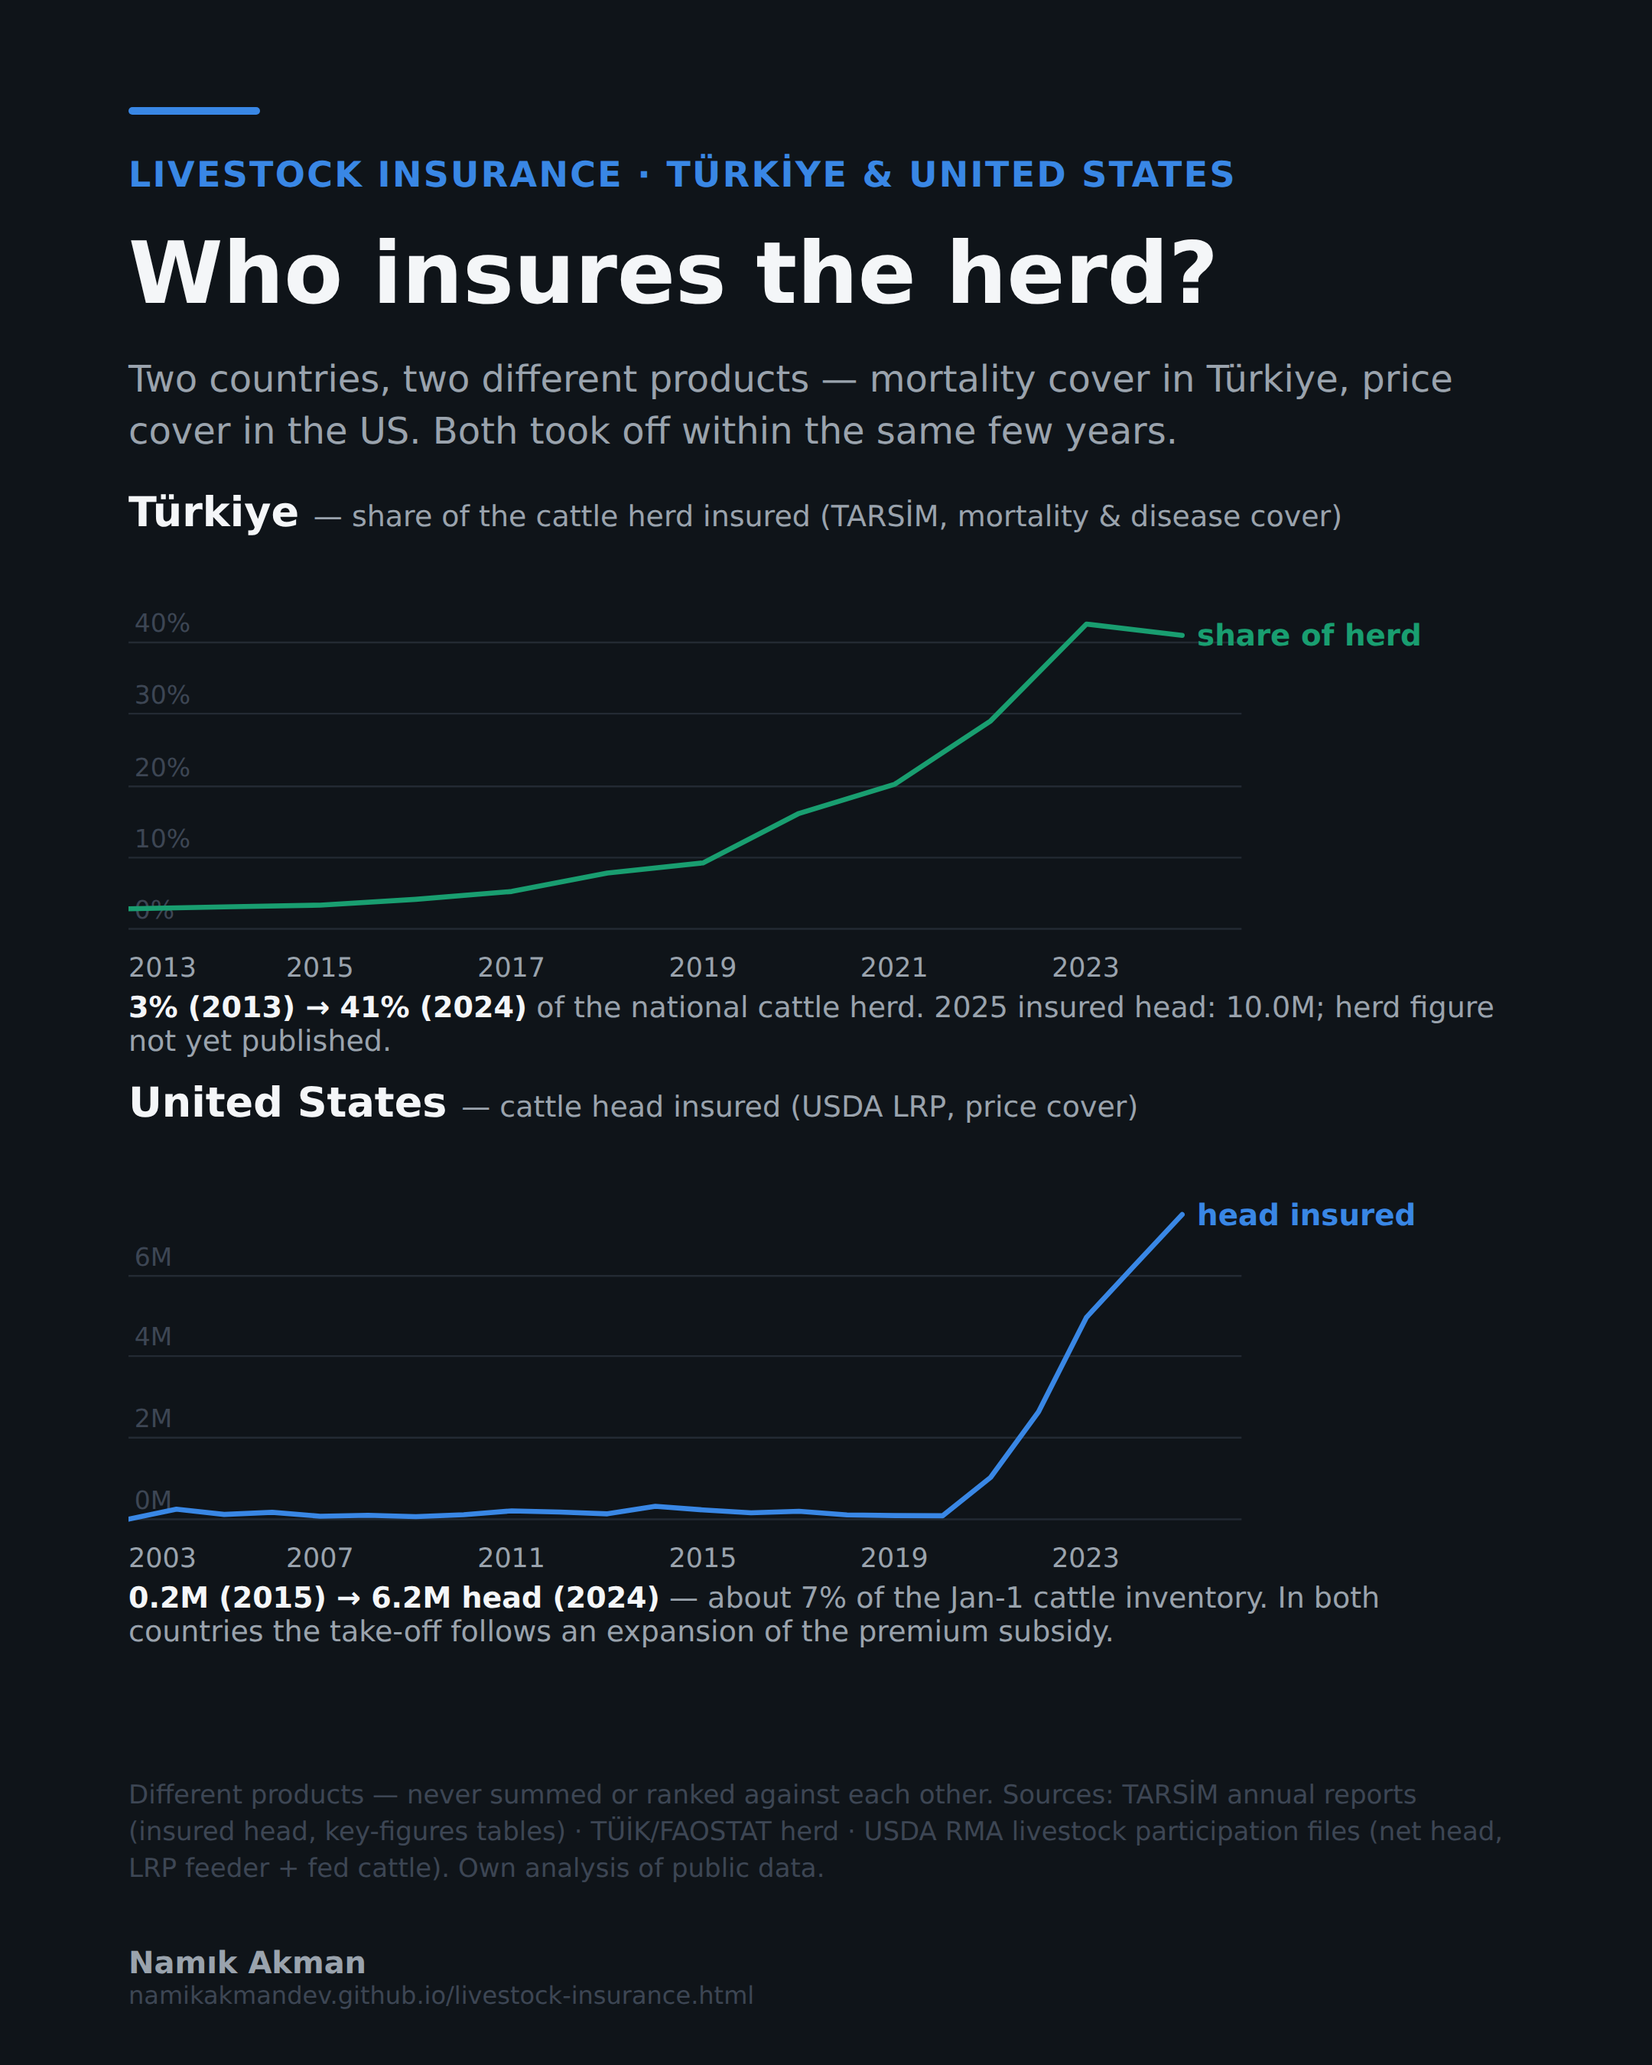
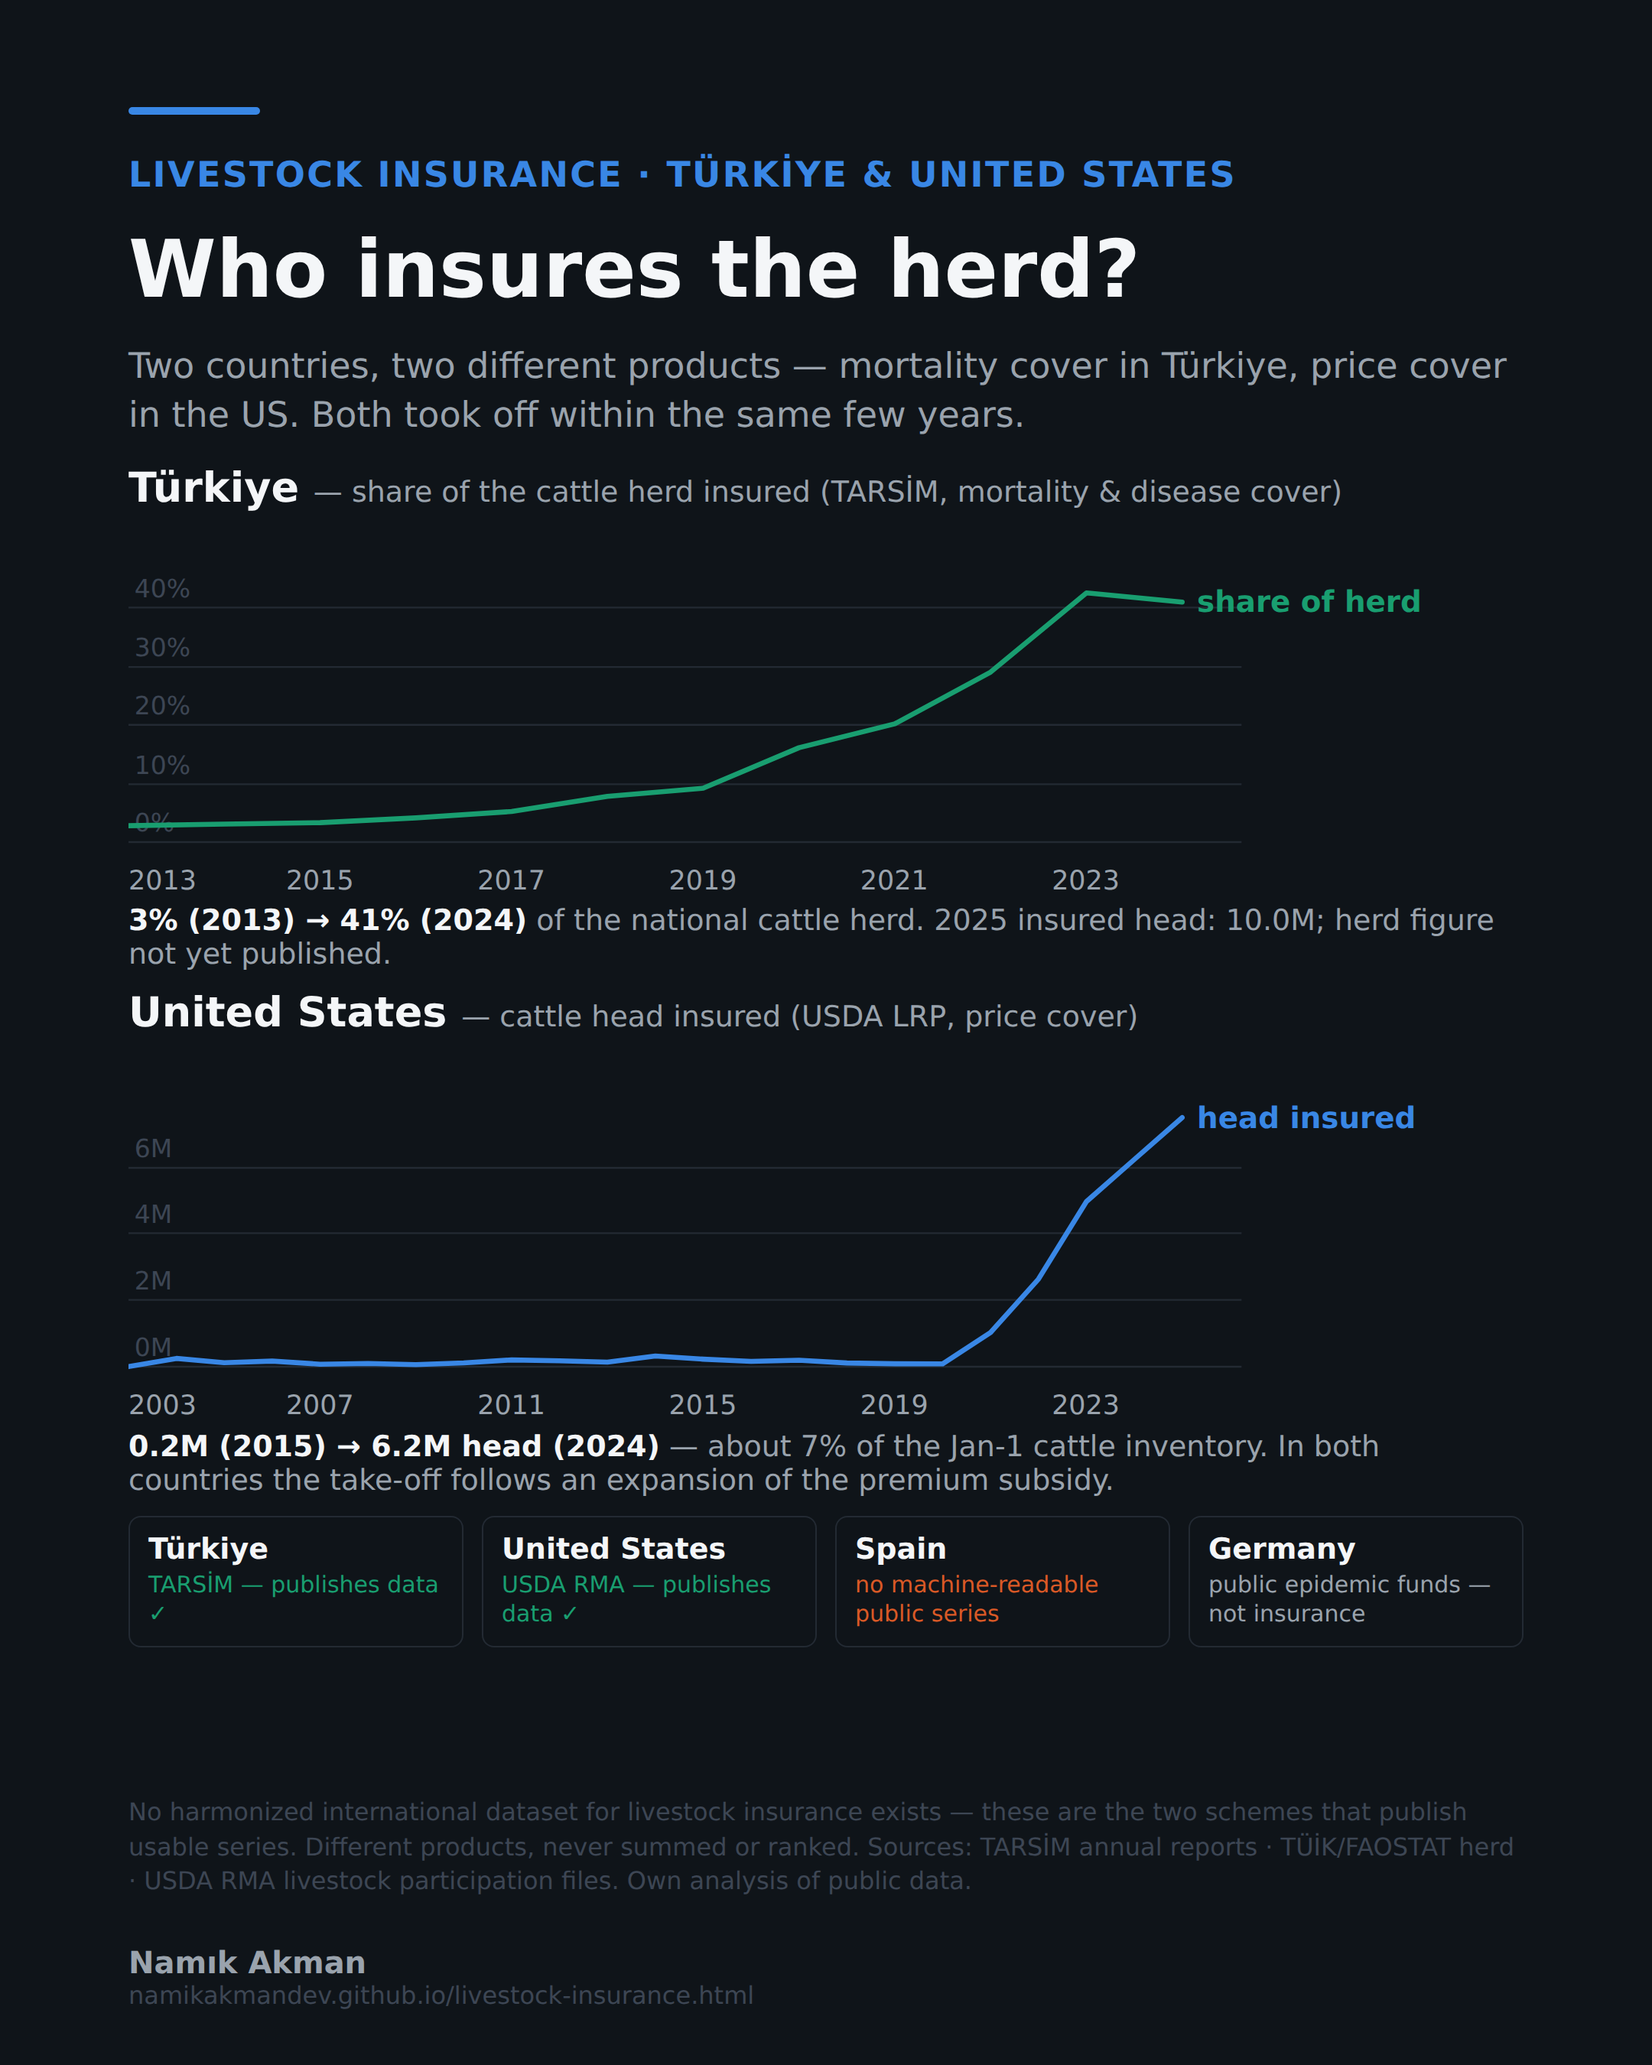
feat: post image — four-country status strip (data / no data / public funds)
Claude-Session: https://claude.ai/code/session_01C4KPKURCBZm7CZAT8Y7Ay1

diff --git a/notes/livestock-ins-post.html b/notes/livestock-ins-post.html
@@ -11,14 +11,21 @@ body { background:#06090c; font-family:"IBM Plex Sans","Segoe UI",system-ui,sans
   border-radius:3px; background:#3987e5; }
 .kicker { color:#3987e5; font-weight:700; font-size:23px; letter-spacing:.05em;
   margin:16px 0 20px; }
-h1 { font-size:56px; line-height:1.15; margin-bottom:20px; }
-p.lead { font-size:24px; line-height:1.4; color:#9aa3ad; margin-bottom:20px; }
+h1 { font-size:52px; line-height:1.15; margin-bottom:16px; }
+p.lead { font-size:23px; line-height:1.4; color:#9aa3ad; margin-bottom:16px; }
 h2 { font-size:27px; margin:6px 0 4px; }
 h2 small { font-size:19px; color:#9aa3ad; font-weight:400; }
 .chart svg { width:100%; height:auto; display:block; }
-p.fig { font-size:19px; color:#9aa3ad; margin:2px 0 14px; }
+p.fig { font-size:19px; color:#9aa3ad; margin:2px 0 12px; }
+.strip { display:flex; gap:12px; margin-top:6px; }
+.scard { flex:1; border:1px solid #232a33; border-radius:8px;
+  padding:10px 12px; }
+.scard b { display:block; font-size:19px; margin-bottom:3px; }
+.scard span { font-size:15px; line-height:1.3; display:block; }
+.ok { color:#199e70; } .na { color:#d95926; }
+.alt { color:#9aa3ad; }
 p.fig b { color:#f4f6f8; }
-.note { position:absolute; left:84px; right:84px; bottom:116px; font-size:17px;
+.note { position:absolute; left:84px; right:84px; bottom:108px; font-size:16px;
   color:#3d4654; line-height:1.42; }
 .footer { position:absolute; left:84px; right:84px; bottom:36px; display:flex;
   justify-content:space-between; align-items:flex-end; color:#9aa3ad;
@@ -34,21 +41,29 @@ p.fig b { color:#f4f6f8; }
 
   <h2>Türkiye <small>— share of the cattle herd insured (TARSİM,
   mortality &amp; disease cover)</small></h2>
-  <div class="chart"><svg viewBox="0 0 940 300" role="img" aria-label="Share of Turkish cattle herd insured"><line x1="0" y1="260" x2="750" y2="260" stroke="#232a33" stroke-width="1.2"/><text x="4" y="253" fill="#3d4654" font-size="17">0%</text><line x1="0" y1="212" x2="750" y2="212" stroke="#232a33" stroke-width="1.2"/><text x="4" y="205" fill="#3d4654" font-size="17">10%</text><line x1="0" y1="164" x2="750" y2="164" stroke="#232a33" stroke-width="1.2"/><text x="4" y="157" fill="#3d4654" font-size="17">20%</text><line x1="0" y1="115" x2="750" y2="115" stroke="#232a33" stroke-width="1.2"/><text x="4" y="108" fill="#3d4654" font-size="17">30%</text><line x1="0" y1="67" x2="750" y2="67" stroke="#232a33" stroke-width="1.2"/><text x="4" y="60" fill="#3d4654" font-size="17">40%</text><text x="0" y="292" fill="#9aa3ad" font-size="18" text-anchor="start">2013</text><text x="129" y="292" fill="#9aa3ad" font-size="18" text-anchor="middle">2015</text><text x="258" y="292" fill="#9aa3ad" font-size="18" text-anchor="middle">2017</text><text x="387" y="292" fill="#9aa3ad" font-size="18" text-anchor="middle">2019</text><text x="516" y="292" fill="#9aa3ad" font-size="18" text-anchor="middle">2021</text><text x="645" y="292" fill="#9aa3ad" font-size="18" text-anchor="middle">2023</text><polyline points="0.0,246.5 64.5,245.2 129.1,244.0 193.6,240.1 258.2,234.8 322.7,222.4 387.3,215.5 451.8,182.2 516.4,162.5 580.9,119.9 645.5,54.6 710.0,62.2" fill="none" stroke="#199e70" stroke-width="3.4" stroke-linecap="round" stroke-linejoin="round"/><text x="720" y="69" fill="#199e70" font-size="20" font-weight="700">share of herd</text></svg></div>
+  <div class="chart"><svg viewBox="0 0 940 258" role="img" aria-label="Share of Turkish cattle herd insured"><line x1="0" y1="218" x2="750" y2="218" stroke="#232a33" stroke-width="1.2"/><text x="4" y="211" fill="#3d4654" font-size="17">0%</text><line x1="0" y1="179" x2="750" y2="179" stroke="#232a33" stroke-width="1.2"/><text x="4" y="172" fill="#3d4654" font-size="17">10%</text><line x1="0" y1="139" x2="750" y2="139" stroke="#232a33" stroke-width="1.2"/><text x="4" y="132" fill="#3d4654" font-size="17">20%</text><line x1="0" y1="100" x2="750" y2="100" stroke="#232a33" stroke-width="1.2"/><text x="4" y="93" fill="#3d4654" font-size="17">30%</text><line x1="0" y1="60" x2="750" y2="60" stroke="#232a33" stroke-width="1.2"/><text x="4" y="53" fill="#3d4654" font-size="17">40%</text><text x="0" y="250" fill="#9aa3ad" font-size="18" text-anchor="start">2013</text><text x="129" y="250" fill="#9aa3ad" font-size="18" text-anchor="middle">2015</text><text x="258" y="250" fill="#9aa3ad" font-size="18" text-anchor="middle">2017</text><text x="387" y="250" fill="#9aa3ad" font-size="18" text-anchor="middle">2019</text><text x="516" y="250" fill="#9aa3ad" font-size="18" text-anchor="middle">2021</text><text x="645" y="250" fill="#9aa3ad" font-size="18" text-anchor="middle">2023</text><polyline points="0.0,207.0 64.5,205.9 129.1,204.9 193.6,201.7 258.2,197.4 322.7,187.2 387.3,181.7 451.8,154.4 516.4,138.3 580.9,103.5 645.5,50.1 710.0,56.3" fill="none" stroke="#199e70" stroke-width="3.4" stroke-linecap="round" stroke-linejoin="round"/><text x="720" y="63" fill="#199e70" font-size="20" font-weight="700">share of herd</text></svg></div>
   <p class="fig"><b>3% (2013) → 41% (2024)</b> of the national
   cattle herd. 2025 insured head: 10.0M; herd figure not yet published.</p>
 
   <h2>United States <small>— cattle head insured (USDA LRP, price
   cover)</small></h2>
-  <div class="chart"><svg viewBox="0 0 940 300" role="img" aria-label="US cattle head insured under LRP"><line x1="0" y1="260" x2="750" y2="260" stroke="#232a33" stroke-width="1.2"/><text x="4" y="253" fill="#3d4654" font-size="17">0M</text><line x1="0" y1="205" x2="750" y2="205" stroke="#232a33" stroke-width="1.2"/><text x="4" y="198" fill="#3d4654" font-size="17">2M</text><line x1="0" y1="150" x2="750" y2="150" stroke="#232a33" stroke-width="1.2"/><text x="4" y="143" fill="#3d4654" font-size="17">4M</text><line x1="0" y1="96" x2="750" y2="96" stroke="#232a33" stroke-width="1.2"/><text x="4" y="89" fill="#3d4654" font-size="17">6M</text><text x="0" y="292" fill="#9aa3ad" font-size="18" text-anchor="start">2003</text><text x="129" y="292" fill="#9aa3ad" font-size="18" text-anchor="middle">2007</text><text x="258" y="292" fill="#9aa3ad" font-size="18" text-anchor="middle">2011</text><text x="387" y="292" fill="#9aa3ad" font-size="18" text-anchor="middle">2015</text><text x="516" y="292" fill="#9aa3ad" font-size="18" text-anchor="middle">2019</text><text x="645" y="292" fill="#9aa3ad" font-size="18" text-anchor="middle">2023</text><polyline points="0.0,259.9 32.3,253.2 64.5,256.7 96.8,255.3 129.1,257.9 161.4,257.3 193.6,258.2 225.9,256.9 258.2,254.3 290.5,255.1 322.7,256.3 355.0,251.2 387.3,253.7 419.5,255.6 451.8,254.6 484.1,257.0 516.4,257.5 548.6,257.6 580.9,231.8 613.2,187.6 645.5,123.9 677.7,89.2 710.0,54.6" fill="none" stroke="#3987e5" stroke-width="3.4" stroke-linecap="round" stroke-linejoin="round"/><text x="720" y="62" fill="#3987e5" font-size="20" font-weight="700">head insured</text></svg></div>
+  <div class="chart"><svg viewBox="0 0 940 258" role="img" aria-label="US cattle head insured under LRP"><line x1="0" y1="218" x2="750" y2="218" stroke="#232a33" stroke-width="1.2"/><text x="4" y="211" fill="#3d4654" font-size="17">0M</text><line x1="0" y1="173" x2="750" y2="173" stroke="#232a33" stroke-width="1.2"/><text x="4" y="166" fill="#3d4654" font-size="17">2M</text><line x1="0" y1="128" x2="750" y2="128" stroke="#232a33" stroke-width="1.2"/><text x="4" y="121" fill="#3d4654" font-size="17">4M</text><line x1="0" y1="84" x2="750" y2="84" stroke="#232a33" stroke-width="1.2"/><text x="4" y="77" fill="#3d4654" font-size="17">6M</text><text x="0" y="250" fill="#9aa3ad" font-size="18" text-anchor="start">2003</text><text x="129" y="250" fill="#9aa3ad" font-size="18" text-anchor="middle">2007</text><text x="258" y="250" fill="#9aa3ad" font-size="18" text-anchor="middle">2011</text><text x="387" y="250" fill="#9aa3ad" font-size="18" text-anchor="middle">2015</text><text x="516" y="250" fill="#9aa3ad" font-size="18" text-anchor="middle">2019</text><text x="645" y="250" fill="#9aa3ad" font-size="18" text-anchor="middle">2023</text><polyline points="0.0,217.9 32.3,212.4 64.5,215.3 96.8,214.2 129.1,216.3 161.4,215.8 193.6,216.6 225.9,215.4 258.2,213.4 290.5,214.0 322.7,214.9 355.0,210.8 387.3,212.9 419.5,214.4 451.8,213.6 484.1,215.5 516.4,216.0 548.6,216.1 580.9,194.9 613.2,158.9 645.5,106.7 677.7,78.4 710.0,50.1" fill="none" stroke="#3987e5" stroke-width="3.4" stroke-linecap="round" stroke-linejoin="round"/><text x="720" y="57" fill="#3987e5" font-size="20" font-weight="700">head insured</text></svg></div>
   <p class="fig"><b>0.2M (2015) → 6.2M head (2024)</b> — about 7% of
   the Jan-1 cattle inventory. In both countries the take-off follows an
   expansion of the premium subsidy.</p>
 
-  <div class="note">Different products — never summed or ranked against each
-  other. Sources: TARSİM annual reports (insured head, key-figures tables) ·
-  TÜİK/FAOSTAT herd · USDA RMA livestock participation files (net head,
-  LRP feeder + fed cattle). Own analysis of public data.</div>
+  <div class="strip">
+    <div class="scard"><b>Türkiye</b><span class="ok">TARSİM — publishes data ✓</span></div>
+    <div class="scard"><b>United States</b><span class="ok">USDA RMA — publishes data ✓</span></div>
+    <div class="scard"><b>Spain</b><span class="na">no machine-readable public series</span></div>
+    <div class="scard"><b>Germany</b><span class="alt">public epidemic funds — not insurance</span></div>
+  </div>
+
+  <div class="note">No harmonized international dataset for livestock insurance
+  exists — these are the two schemes that publish usable series. Different
+  products, never summed or ranked. Sources: TARSİM annual reports ·
+  TÜİK/FAOSTAT herd · USDA RMA livestock participation files. Own analysis
+  of public data.</div>
   <div class="footer">
     <span><b>Namık Akman</b><br><small>namikakmandev.github.io/livestock-insurance.html</small></span>
   </div>

diff --git a/scripts/livestock_post_assets.py b/scripts/livestock_post_assets.py
@@ -21,12 +21,12 @@ S = L.S
 tr_chart = L.line_chart([("share of herd", L.PEN, S["green"])],
                         lambda v: f"{v:.0f}%", [0, 10, 20, 30, 40],
                         "Share of Turkish cattle herd insured",
-                        W=940, H=300, PADR=230)
+                        W=940, H=258, PADR=230)
 us_chart = L.line_chart([("head insured", {y: v / 1e6 for y, v in L.US_HEAD.items()},
                           S["blue"])],
                         lambda v: f"{v:.0f}M", [0, 2, 4, 6],
                         "US cattle head insured under LRP",
-                        W=940, H=300, PADR=230, xstep=4)
+                        W=940, H=258, PADR=230, xstep=4)
 
 pen13, pen24 = L.PEN["2013"], L.PEN["2024"]
 us15 = L.US_HEAD["2015"] / 1e6
@@ -45,14 +45,21 @@ body {{ background:#06090c; font-family:"IBM Plex Sans","Segoe UI",system-ui,san
   border-radius:3px; background:{S['blue']}; }}
 .kicker {{ color:{S['blue']}; font-weight:700; font-size:23px; letter-spacing:.05em;
   margin:16px 0 20px; }}
-h1 {{ font-size:56px; line-height:1.15; margin-bottom:20px; }}
-p.lead {{ font-size:24px; line-height:1.4; color:{S['ink2']}; margin-bottom:20px; }}
+h1 {{ font-size:52px; line-height:1.15; margin-bottom:16px; }}
+p.lead {{ font-size:23px; line-height:1.4; color:{S['ink2']}; margin-bottom:16px; }}
 h2 {{ font-size:27px; margin:6px 0 4px; }}
 h2 small {{ font-size:19px; color:{S['ink2']}; font-weight:400; }}
 .chart svg {{ width:100%; height:auto; display:block; }}
-p.fig {{ font-size:19px; color:{S['ink2']}; margin:2px 0 14px; }}
+p.fig {{ font-size:19px; color:{S['ink2']}; margin:2px 0 12px; }}
+.strip {{ display:flex; gap:12px; margin-top:6px; }}
+.scard {{ flex:1; border:1px solid {S['grid']}; border-radius:8px;
+  padding:10px 12px; }}
+.scard b {{ display:block; font-size:19px; margin-bottom:3px; }}
+.scard span {{ font-size:15px; line-height:1.3; display:block; }}
+.ok {{ color:{S['green']}; }} .na {{ color:{S['orange']}; }}
+.alt {{ color:{S['ink2']}; }}
 p.fig b {{ color:{S['ink']}; }}
-.note {{ position:absolute; left:84px; right:84px; bottom:116px; font-size:17px;
+.note {{ position:absolute; left:84px; right:84px; bottom:108px; font-size:16px;
   color:{S['muted']}; line-height:1.42; }}
 .footer {{ position:absolute; left:84px; right:84px; bottom:36px; display:flex;
   justify-content:space-between; align-items:flex-end; color:{S['ink2']};
@@ -79,10 +86,18 @@ p.fig b {{ color:{S['ink']}; }}
   the Jan-1 cattle inventory. In both countries the take-off follows an
   expansion of the premium subsidy.</p>
 
-  <div class="note">Different products — never summed or ranked against each
-  other. Sources: TARSİM annual reports (insured head, key-figures tables) ·
-  TÜİK/FAOSTAT herd · USDA RMA livestock participation files (net head,
-  LRP feeder + fed cattle). Own analysis of public data.</div>
+  <div class="strip">
+    <div class="scard"><b>Türkiye</b><span class="ok">TARSİM — publishes data ✓</span></div>
+    <div class="scard"><b>United States</b><span class="ok">USDA RMA — publishes data ✓</span></div>
+    <div class="scard"><b>Spain</b><span class="na">no machine-readable public series</span></div>
+    <div class="scard"><b>Germany</b><span class="alt">public epidemic funds — not insurance</span></div>
+  </div>
+
+  <div class="note">No harmonized international dataset for livestock insurance
+  exists — these are the two schemes that publish usable series. Different
+  products, never summed or ranked. Sources: TARSİM annual reports ·
+  TÜİK/FAOSTAT herd · USDA RMA livestock participation files. Own analysis
+  of public data.</div>
   <div class="footer">
     <span><b>Namık Akman</b><br><small>namikakmandev.github.io/livestock-insurance.html</small></span>
   </div>
